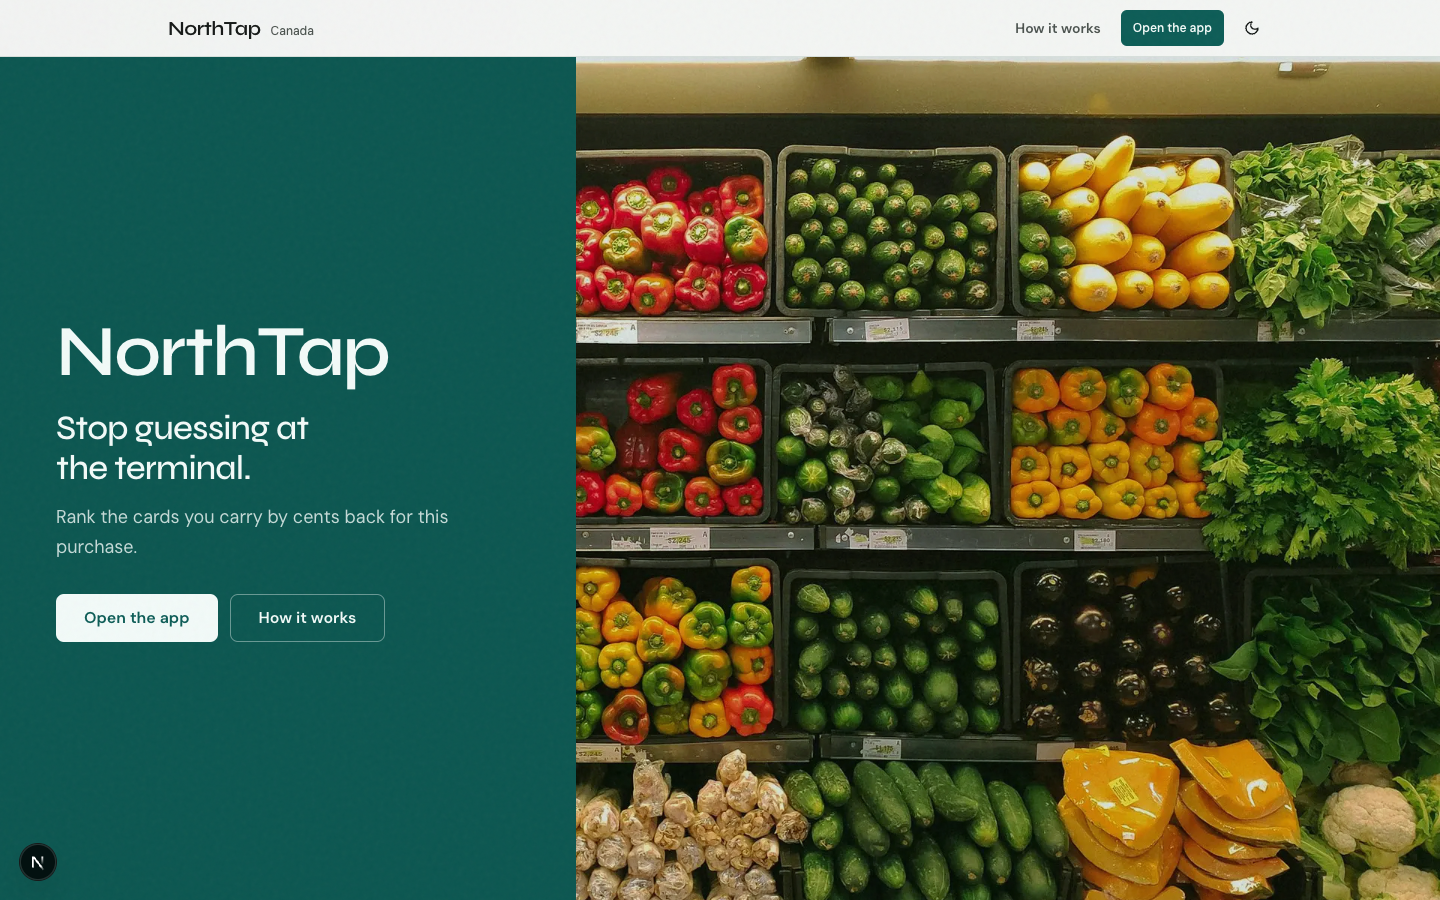
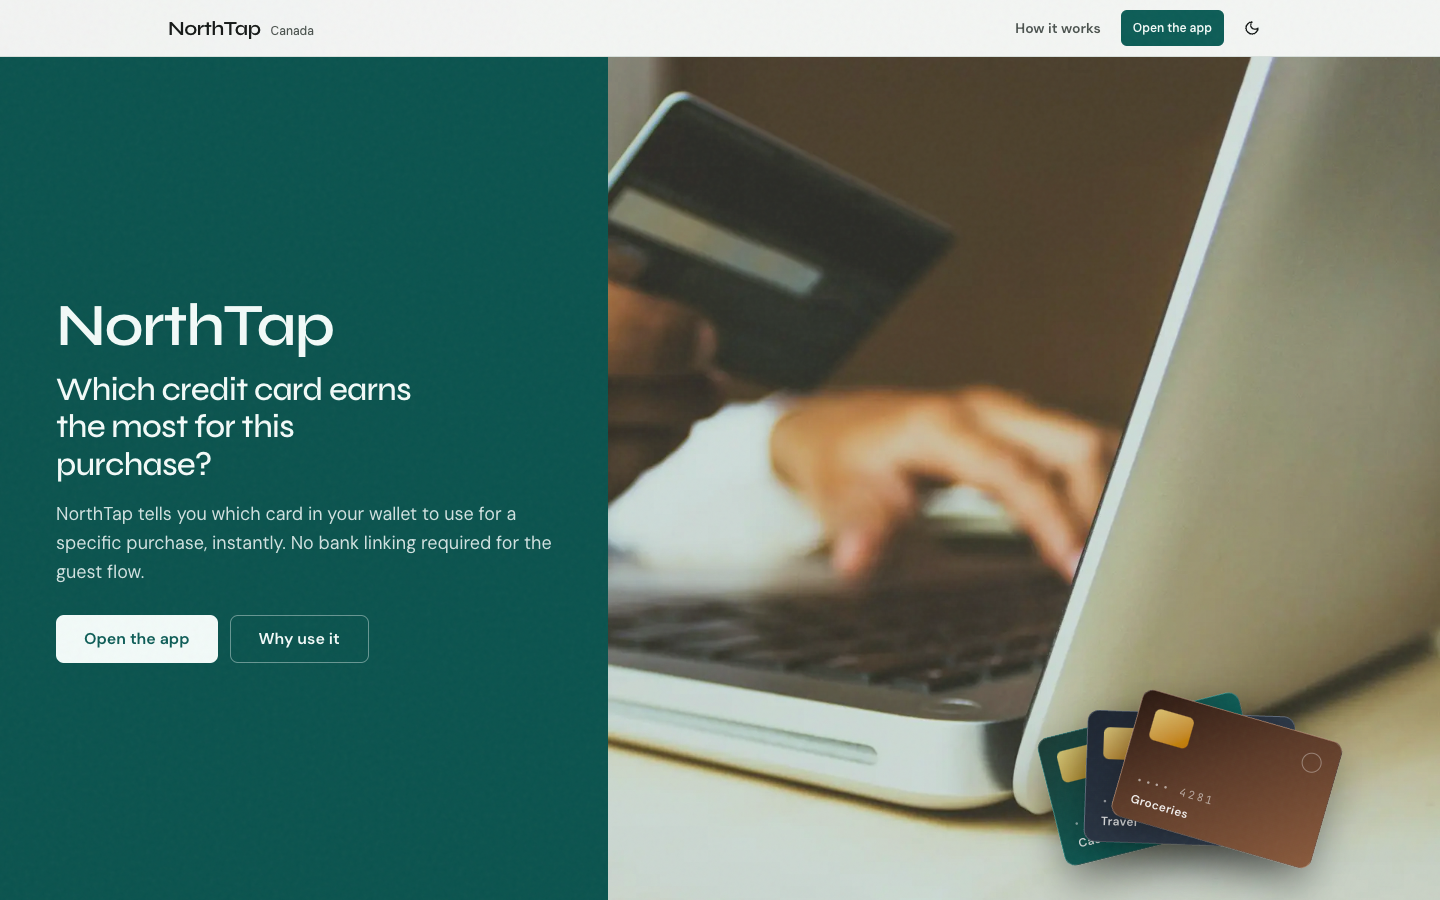
Clarify marketing hero: real cards, plain-language pitch, why-us first.
Swap produce stock for credit-card photography plus a fanned card mockup, spell out what NorthTap does in the hero, and move ValueProps directly under the hero with a sharper why-us headline.

diff --git a/apps/web/src/components/hero.tsx b/apps/web/src/components/hero.tsx
@@ -1,54 +1,55 @@
 import Image from "next/image";
 import { Button } from "@/components/ui/button";
+import { HeroCardFan } from "@/components/hero-card-fan";
 import { IMAGES } from "@/lib/images";
 import { APP_PATH } from "@/lib/routes";
 
 /**
- * Hero v2: one full-bleed purchase photo, two compositions by breakpoint.
- * - Mobile: type over a teal scrim on the photo (image is the first-viewport plane)
- * - Desktop: hard left color slab over the photo (not a soft 50/50 SaaS card split)
+ * Hero: full-bleed card photography + hard teal brand slab on desktop,
+ * with a fanned card mockup so the product category is unmistakable.
  */
 export function Hero() {
   return (
     <section className="relative min-h-[calc(100dvh-3.5rem)] overflow-hidden border-b border-border">
       <Image
-        src={IMAGES.heroProduce.src}
-        alt={IMAGES.heroProduce.alt}
+        src={IMAGES.heroCards.src}
+        alt={IMAGES.heroCards.alt}
         fill
         priority
         sizes="100vw"
-        className="object-cover object-[center_40%]"
+        className="object-cover object-[center_30%]"
       />
 
       {/* Mobile scrim */}
       <div
-        className="absolute inset-0 bg-gradient-to-t from-[var(--result-top)] via-[var(--result-top)]/70 to-[var(--result-top)]/20 lg:hidden"
+        className="absolute inset-0 bg-gradient-to-t from-[var(--result-top)] via-[var(--result-top)]/75 to-[var(--result-top)]/30 lg:hidden"
         aria-hidden
       />
 
-      {/* Desktop brand slab + light multiply over the full photo */}
+      {/* Desktop brand slab */}
       <div
-        className="absolute inset-y-0 left-0 hidden w-[min(42%,36rem)] bg-[var(--result-top)] lg:block"
+        className="absolute inset-y-0 left-0 hidden w-[min(44%,38rem)] bg-[var(--result-top)] lg:block"
         aria-hidden
       />
       <div
-        className="pointer-events-none absolute inset-0 hidden bg-[var(--result-top)]/10 mix-blend-multiply lg:block"
+        className="pointer-events-none absolute inset-0 hidden bg-[var(--result-top)]/15 mix-blend-multiply lg:block"
         aria-hidden
       />
 
-      <div className="relative z-10 flex min-h-[calc(100dvh-3.5rem)] w-full flex-col justify-end lg:justify-center">
-        <div className="w-full px-4 pb-10 pt-16 text-white sm:px-6 sm:pb-12 lg:w-[min(42%,36rem)] lg:px-10 lg:pb-16 lg:pt-16 lg:text-[var(--result-top-fg)] xl:px-14">
-          <div className="max-w-md">
-            <p className="font-display text-5xl font-semibold tracking-tight sm:text-6xl lg:text-7xl">
+      <div className="relative z-10 flex min-h-[calc(100dvh-3.5rem)] w-full flex-col justify-end lg:flex-row lg:items-stretch lg:justify-between">
+        <div className="w-full px-4 pb-6 pt-14 text-white sm:px-6 sm:pb-8 lg:flex lg:w-[min(44%,38rem)] lg:flex-col lg:justify-center lg:px-10 lg:pb-16 lg:pt-16 lg:text-[var(--result-top-fg)] xl:px-14">
+          <div className="max-w-lg">
+            <p className="font-display text-4xl font-semibold tracking-tight sm:text-5xl lg:text-6xl">
               NorthTap
             </p>
-            <h1 className="mt-5 max-w-[14ch] font-display text-2xl font-medium leading-[1.15] tracking-tight sm:text-3xl lg:text-[2.15rem]">
-              Stop guessing at the terminal.
+            <h1 className="mt-4 max-w-[18ch] font-display text-2xl font-medium leading-[1.15] tracking-tight sm:text-3xl lg:text-[2.05rem]">
+              Which credit card earns the most for this purchase?
             </h1>
-            <p className="mt-4 max-w-[32ch] text-base leading-relaxed text-white/85 sm:text-lg lg:text-[var(--result-top-fg)]/80">
-              Rank the cards you carry by cents back for this purchase.
+            <p className="mt-4 max-w-[42ch] text-base leading-relaxed text-white/90 sm:text-lg lg:text-[var(--result-top-fg)]/85">
+              NorthTap tells you which card in your wallet to use for a specific
+              purchase, instantly. No bank linking required for the guest flow.
             </p>
-            <div className="mt-8 flex flex-wrap gap-3">
+            <div className="mt-7 flex flex-wrap gap-3">
               <Button
                 asChild
                 size="lg"
@@ -62,10 +63,14 @@ export function Hero() {
                 variant="outline"
                 className="border-white/45 bg-transparent text-white hover:bg-white/10 hover:text-white lg:border-[var(--result-top-fg)]/40 lg:text-[var(--result-top-fg)] lg:hover:bg-white/10 lg:hover:text-[var(--result-top-fg)]"
               >
-                <a href="#how-it-works">How it works</a>
+                <a href="#why">Why use it</a>
               </Button>
             </div>
           </div>
+        </div>
+
+        <div className="flex justify-end px-4 pb-10 sm:px-6 lg:items-end lg:justify-end lg:px-10 lg:pb-14 xl:px-14">
+          <HeroCardFan />
         </div>
       </div>
     </section>

diff --git a/apps/web/src/components/value-props.tsx b/apps/web/src/components/value-props.tsx
@@ -3,50 +3,58 @@ import { IMAGES } from "@/lib/images";
 
 export function ValueProps() {
   return (
-    <section className="border-b border-border py-16 sm:py-20">
-      <div className="mx-auto grid max-w-6xl gap-10 px-4 sm:px-6 lg:grid-cols-2 lg:items-center lg:gap-14">
-        <div className="relative aspect-[4/3] overflow-hidden rounded-xl bg-muted">
-          <Image
-            src={IMAGES.dining.src}
-            alt={IMAGES.dining.alt}
-            fill
-            sizes="(max-width: 1024px) 100vw, 50vw"
-            className="object-cover"
-          />
-        </div>
-        <div>
-          <h2 className="font-display text-3xl tracking-tight text-foreground sm:text-4xl">
-            Made for Canadian wallets.
-          </h2>
-          <ul className="mt-8 space-y-6">
-            <li>
-              <h3 className="font-display text-lg text-foreground">
-                Your cards, not ours
-              </h3>
-              <p className="mt-1 text-sm leading-relaxed text-muted-foreground sm:text-base">
-                Rankings use the cards you select. No bank linking required for
-                the web app experience.
-              </p>
-            </li>
-            <li>
-              <h3 className="font-display text-lg text-foreground">
-                Cents back, explained
-              </h3>
-              <p className="mt-1 text-sm leading-relaxed text-muted-foreground sm:text-base">
-                Earn rates times point values become a simple ¢/$ figure, with a
-                short reason you can trust at a glance.
-              </p>
-            </li>
-            <li>
-              <h3 className="font-display text-lg text-foreground">
-                Rules, not guesses
-              </h3>
-              <p className="mt-1 text-sm leading-relaxed text-muted-foreground sm:text-base">
-                A deterministic engine from a curated Canadian card catalog. Not
-                ML, not opaque scores.
-              </p>
-            </li>
-          </ul>
+    <section
+      id="why"
+      className="scroll-mt-24 border-b border-border bg-muted/35 py-14 sm:py-16"
+    >
+      <div className="mx-auto max-w-6xl px-4 sm:px-6">
+        <div className="grid gap-10 lg:grid-cols-[0.9fr_1.1fr] lg:items-center lg:gap-14">
+          <div className="relative aspect-[4/3] overflow-hidden rounded-xl bg-muted lg:order-2">
+            <Image
+              src={IMAGES.walletCards.src}
+              alt={IMAGES.walletCards.alt}
+              fill
+              sizes="(max-width: 1024px) 100vw, 45vw"
+              className="object-cover object-center"
+            />
+          </div>
+          <div className="lg:order-1">
+            <h2 className="font-display text-3xl tracking-tight text-foreground sm:text-4xl">
+              Why open NorthTap before you tap
+            </h2>
+            <p className="mt-3 max-w-[48ch] text-base leading-relaxed text-muted-foreground">
+              Three reasons the ranking is worth a glance at the terminal.
+            </p>
+            <ul className="mt-8 space-y-6">
+              <li>
+                <h3 className="font-display text-lg text-foreground">
+                  Your cards, not ours
+                </h3>
+                <p className="mt-1 text-sm leading-relaxed text-muted-foreground sm:text-base">
+                  Rankings use the cards you select. No bank linking required for
+                  the guest web flow.
+                </p>
+              </li>
+              <li>
+                <h3 className="font-display text-lg text-foreground">
+                  Cents back, explained
+                </h3>
+                <p className="mt-1 text-sm leading-relaxed text-muted-foreground sm:text-base">
+                  Earn rates times point values become a simple ¢/$ figure, with
+                  a short reason you can trust at a glance.
+                </p>
+              </li>
+              <li>
+                <h3 className="font-display text-lg text-foreground">
+                  Rules, not guesses
+                </h3>
+                <p className="mt-1 text-sm leading-relaxed text-muted-foreground sm:text-base">
+                  A deterministic engine from a curated Canadian card catalog.
+                  Not ML, not opaque scores.
+                </p>
+              </li>
+            </ul>
+          </div>
         </div>
       </div>
     </section>

diff --git a/apps/web/src/components/hero-card-fan.tsx b/apps/web/src/components/hero-card-fan.tsx
@@ -1,0 +1,57 @@
+/**
+ * Decorative photo-realistic card fan for the hero.
+ * Purely visual - not interactive, not wired to recommendCards.
+ */
+export function HeroCardFan({ className = "" }: { className?: string }) {
+  const cards = [
+    {
+      label: "Cash",
+      rotate: "-14deg",
+      z: 1,
+      fill: "linear-gradient(145deg, #1a3a34 0%, #0c5c56 55%, #147a6e 100%)",
+      x: "0%",
+    },
+    {
+      label: "Travel",
+      rotate: "2deg",
+      z: 2,
+      fill: "linear-gradient(145deg, #1c2430 0%, #2a3544 50%, #3d4d63 100%)",
+      x: "18%",
+    },
+    {
+      label: "Groceries",
+      rotate: "16deg",
+      z: 3,
+      fill: "linear-gradient(145deg, #2a1810 0%, #5c3a28 45%, #8a5a3c 100%)",
+      x: "36%",
+    },
+  ] as const;
+
+  return (
+    <div
+      className={`pointer-events-none relative h-[11.5rem] w-[18.5rem] sm:h-[13rem] sm:w-[21rem] ${className}`}
+      aria-hidden
+    >
+      {cards.map((card) => (
+        <div
+          key={card.label}
+          className="absolute bottom-0 left-0 h-[7.25rem] w-[11.5rem] overflow-hidden rounded-xl border border-white/20 shadow-[0_18px_40px_rgba(0,0,0,0.35)] sm:h-[8.25rem] sm:w-[13rem]"
+          style={{
+            background: card.fill,
+            transform: `translateX(${card.x}) rotate(${card.rotate})`,
+            zIndex: card.z,
+          }}
+        >
+          <div className="absolute left-4 top-4 h-7 w-9 rounded-md bg-gradient-to-br from-amber-200/90 to-amber-500/70 opacity-90 sm:h-8 sm:w-10" />
+          <div className="absolute right-4 top-4 h-5 w-5 rounded-full border border-white/35" />
+          <p className="absolute bottom-8 left-4 font-mono text-[10px] tracking-[0.22em] text-white/55 sm:text-[11px]">
+            •••• 4281
+          </p>
+          <p className="absolute bottom-3 left-4 text-[11px] font-semibold tracking-wide text-white/90 sm:text-xs">
+            {card.label}
+          </p>
+        </div>
+      ))}
+    </div>
+  );
+}

diff --git a/apps/web/src/lib/images.ts b/apps/web/src/lib/images.ts
@@ -1,8 +1,8 @@
 /** Curated Unsplash photos for NorthTap marketing surfaces. */
 export const IMAGES = {
-  heroProduce: {
-    src: "https://images.unsplash.com/photo-1542838132-92c53300491e?auto=format&fit=crop&w=2000&q=80",
-    alt: "Fresh produce wall in a grocery store, the kind of everyday purchase NorthTap ranks cards for",
+  heroCards: {
+    src: "https://images.unsplash.com/photo-1563013544-824ae1b704d3?auto=format&fit=crop&w=2000&q=80",
+    alt: "Hand holding a credit card next to a laptop, ready for a purchase",
   },
   cityDay: {
     src: "https://images.unsplash.com/photo-1503614472-8c93d56e92ce?auto=format&fit=crop&w=1600&q=80",
@@ -19,5 +19,9 @@ export const IMAGES = {
   travel: {
     src: "https://images.unsplash.com/photo-1436491865332-7a61a109cc05?auto=format&fit=crop&w=1200&q=80",
     alt: "Airplane wing above clouds during travel",
+  },
+  walletCards: {
+    src: "https://images.unsplash.com/photo-1556740738-b6a63e27c4df?auto=format&fit=crop&w=1400&q=80",
+    alt: "Person holding a credit card at a checkout counter",
   },
 } as const;

diff --git a/apps/web/src/app/page.tsx b/apps/web/src/app/page.tsx
@@ -13,10 +13,10 @@ export default function HomePage() {
       <SiteHeader />
       <main>
         <Hero />
+        <ValueProps />
         <LifestyleBand />
         <HowItWorks />
         <ProductDemo />
-        <ValueProps />
         <FinalCta />
       </main>
       <SiteFooter />
